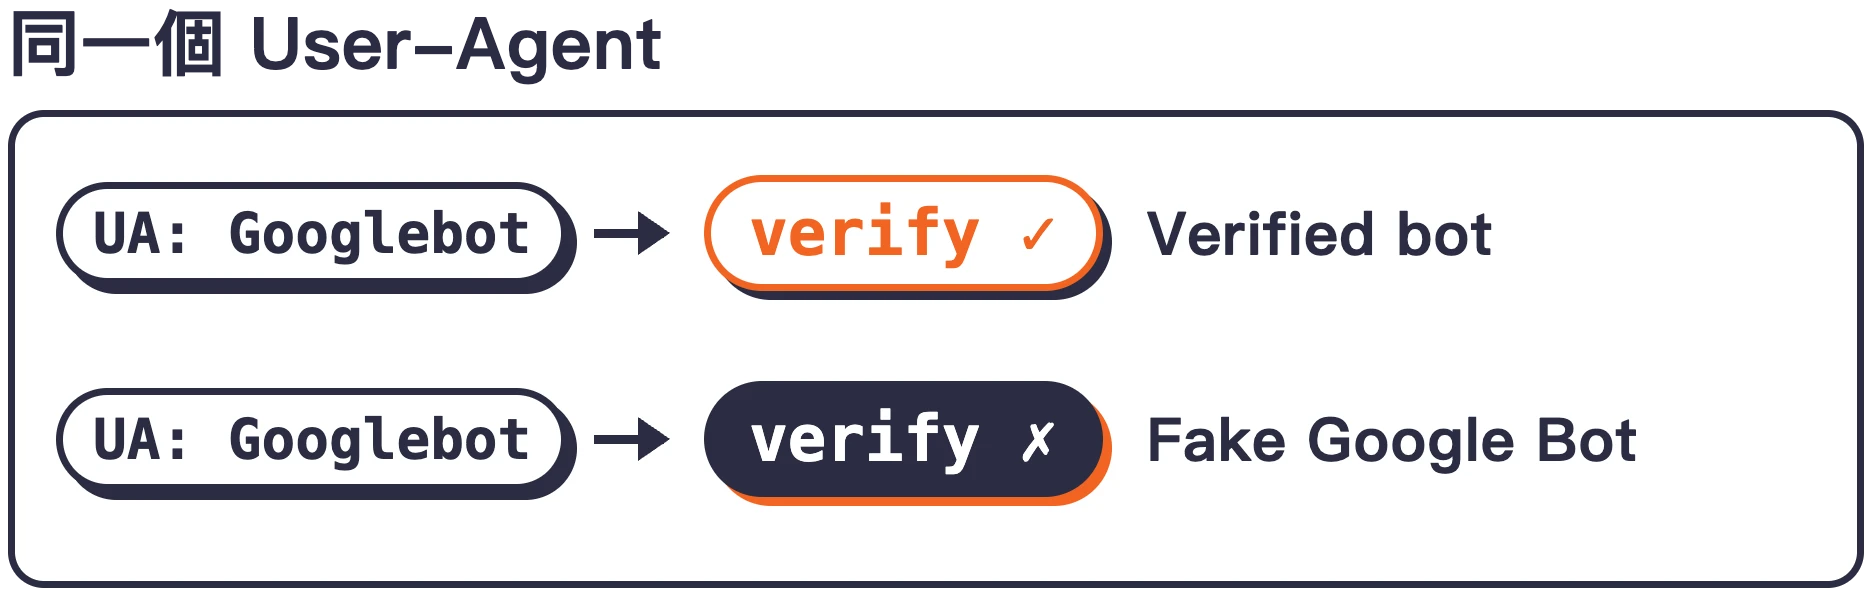
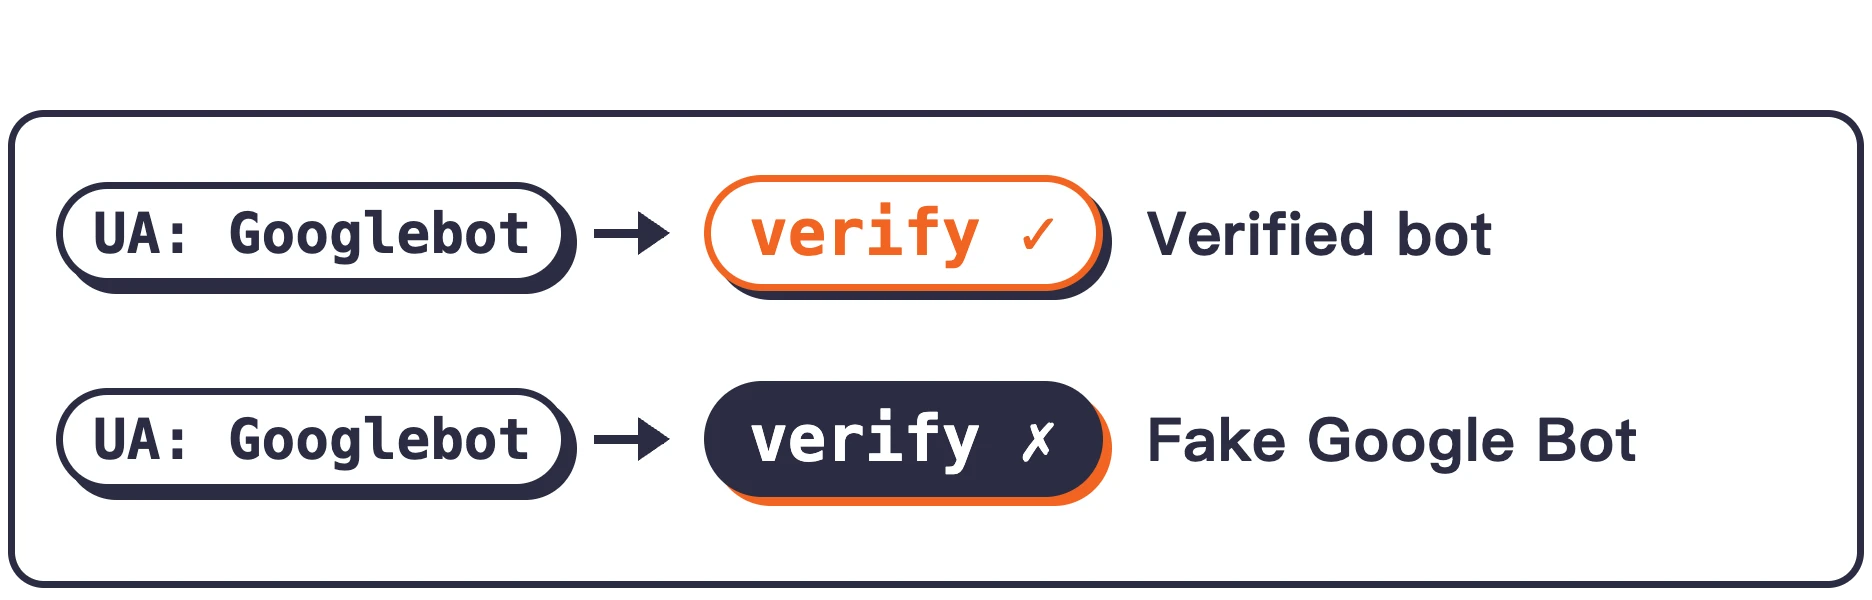
content: Cloudflare Verified Bots 貼文改深色，封面換成去背插畫
封面改用 Codex 生成的插畫（AI 機器人被閘門擋下、搜尋機器人通過），去背後
直接浮在深色封面上。內頁圖照深色主題重新輸出，圖框標題改成白字。
內文同步你在編輯器裡的修改。

Changed region(s): [[0.0, 0.0, 0.3718, 0.15]]

diff --git a/content/posts/cloudflare-verified-bots.md b/content/posts/cloudflare-verified-bots.md
@@ -2,7 +2,7 @@
 title: "Cloudflare Verified Bots"
 handle: "@leo.web.dev"
 timestamp: "3 min ago"
-theme: "light"
+theme: "dark"
 created: "2026-11-24T12:00:00.000Z"
 cta:
   subhead: "分享給你的朋友吧！"
@@ -15,7 +15,7 @@ cta:
   image: ""
 ---
 
-# 只擋 AI 爬蟲，不擋 Google
+# Cloudflare Verified Bots 是什麼？
 
 ![banner](/post-images/cloudflare-verified-bots/cover.webp)
 
@@ -23,38 +23,34 @@ cta:
 
 ![banner](/post-images/cloudflare-verified-bots/fake-googlebot.webp)
 
-User-Agent 說穿了就是請求裡自己報上名號的那一行，誰想寫 Googlebot 都可以。很多網站為了顧 SEO 習慣直接放行搜尋引擎，但如果只認這行字，一堆假爬蟲也就跟著混進來了。
+為了讓 Google 收錄網頁，很多網站會放行 Googlebot。但 `User-Agent` 是請求方自己設定的，其他爬蟲也能設定 Googlebot。
 
-如果有用 Cloudflare，它的 managed rules 裡其實內建了一條 `Fake Google Bot`，專門抓這種自稱 Googlebot，但來源根本驗不過的冒牌貨。
+Cloudflare 的 Managed Rules 裡有一條 `Fake Google Bot`。請求自稱 Googlebot，來源又驗不過，就會被這條規則抓到。
 
 ## 怎麼確認爬蟲是真是假？
 
-要在 Cloudflare 拿到 Verified bot 的資格，前提是爬蟲必須誠實表明身分和用途。Cloudflare 會透過公開 IP 清單、reverse DNS 或是請求簽章來驗明正身。
+申請 Verified Bot 時，要先說明誰在跑這支爬蟲、拿來做什麼。Cloudflare 會用公開的 IP 清單、反向 DNS 或請求簽章確認身分。
 
-但驗過身分只是第一步，後續還得守規矩：乖乖讀 `robots.txt`、控制抓取頻率、不攻擊網站。要是累犯違規，整個組織底下的 bot 認證都可能會被拔掉。
+認證後還得遵守 `robots.txt`、控制抓取頻率，不能攻擊網站。如果同一個組織反覆違規，旗下所有 bot 都可能被撤銷認證。
 
 ## 每支 bot 都有分類標籤
 
-拿到認證的 bot 會依照用途被分進 17 種類別。像是 Googlebot 屬於 Search Engine Crawler，而平常在 Slack 或 Discord 貼連結時跑來抓預覽圖的，則歸類在 Page Preview。
+Cloudflare 的 WAF 沿用原本的 17 種分類。Googlebot 歸在 Search Engine Crawler。你在 Slack 或 Discord 貼連結時，來抓預覽的 bot 屬於 Page Preview。
 
-寫 WAF 規則時，可以直接拿分類當條件。
+寫 WAF 規則時，可以直接拿這些分類當條件。
 
 ## 與 AI 相關的三種分類
 
-在這 17 種分類裡，跟 AI 有關的一共有三種，差別在於它們把資料抓回去之後要幹嘛：
+如果你想讓文章出現在 AI 搜尋結果裡，又介意內容被抓去訓練模型，寫 WAF 規則時會遇到這三個分類。
 
-- **AI Crawler**：抓回去訓練模型用的，例如 OpenAI 用來訓練的爬蟲。
-- **AI Assistant**：使用者叫它去看網頁時才會出動，像是 `Perplexity-User`。
-- **AI Search**：用來建立 AI 搜尋索引的，像是 `OAI-SearchBot`。
-
-如果你的底線是「文章可以出現在 AI 搜尋結果裡，但不想被拿去免費練模型」，那只要針對第一種下手就夠了。
+- AI Crawler 抓網頁做訓練資料，像 `GPTBot`
+- AI Assistant 有人叫才來，像 `Perplexity-User`
+- AI Search 做搜尋索引，像 `OAI-SearchBot`
 
 ## WAF 只擋訓練用爬蟲
 
 ![banner](/post-images/cloudflare-verified-bots/waf-category.webp)
 
-Custom Rules 裡先用 `cf.client.bot` 確認是已驗證的 bot，再用 `cf.verified_bot_category` 拿分類。
+在 WAF 的 Custom Rules 裡，用 `cf.client.bot` 限定已驗證的 bot，再加上 `cf.verified_bot_category eq "AI Crawler"`。動作選 Block，Googlebot 照樣能進站。
 
-條件寫 `cf.verified_bot_category eq "AI Crawler"`、動作選 Block，Googlebot 照樣進得來。
-
-Cloudflare 從 2026/07 起還多了一套看 bot「做什麼」的標籤，加上請求簽章的細節，這篇塞不下，想看留言跟我說。
+Cloudflare 在 2026 年 7 月加了新的行為標籤。想看新標籤或請求簽章怎麼用，可以留言跟我說。
